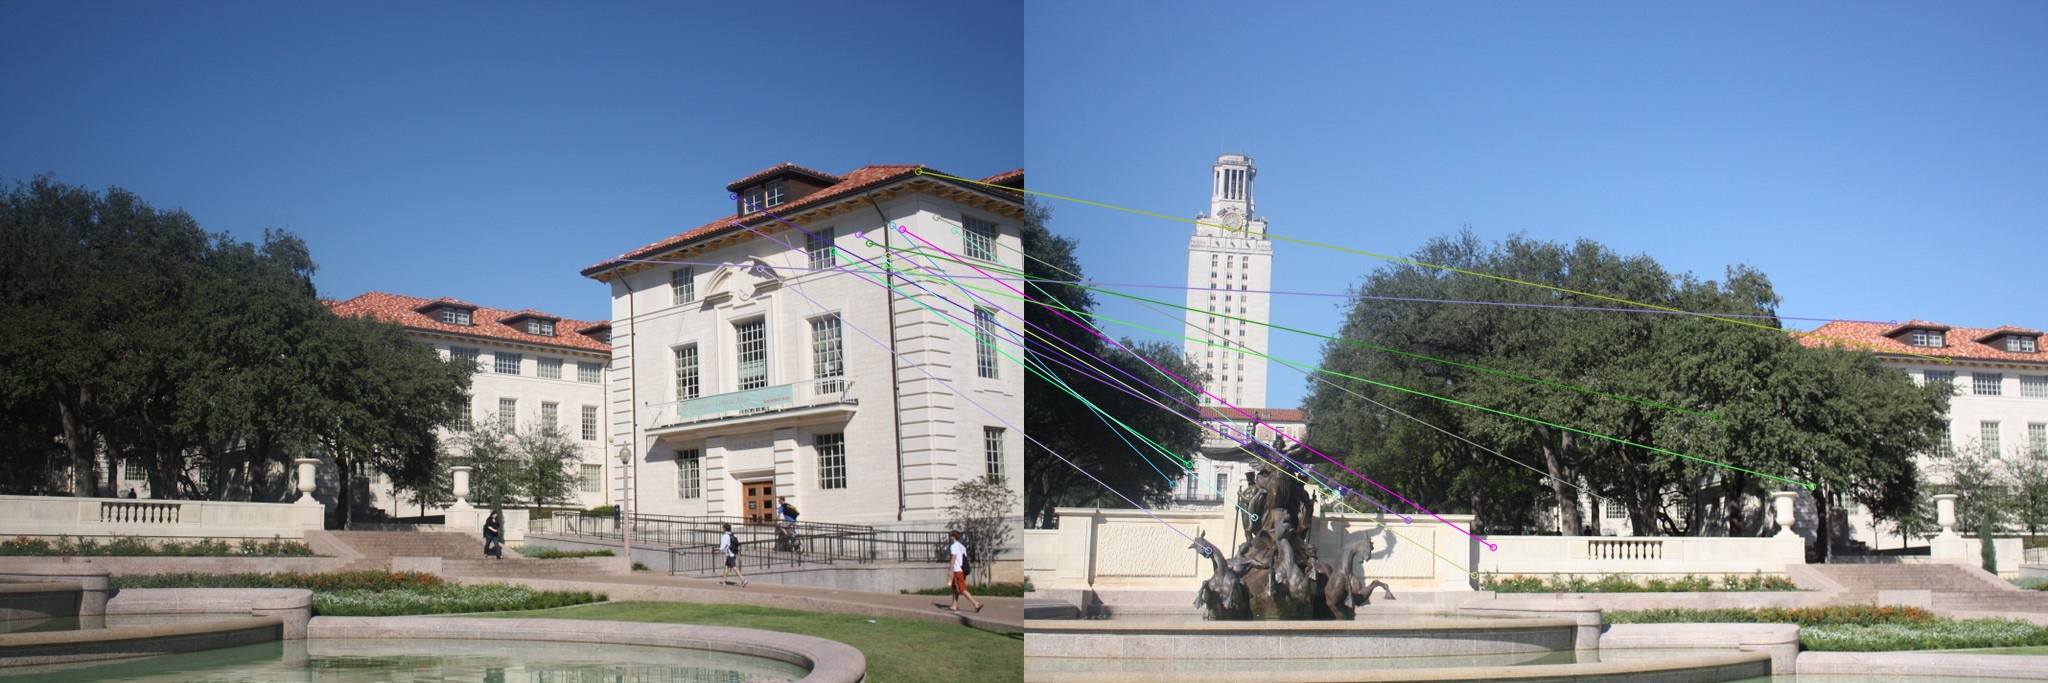
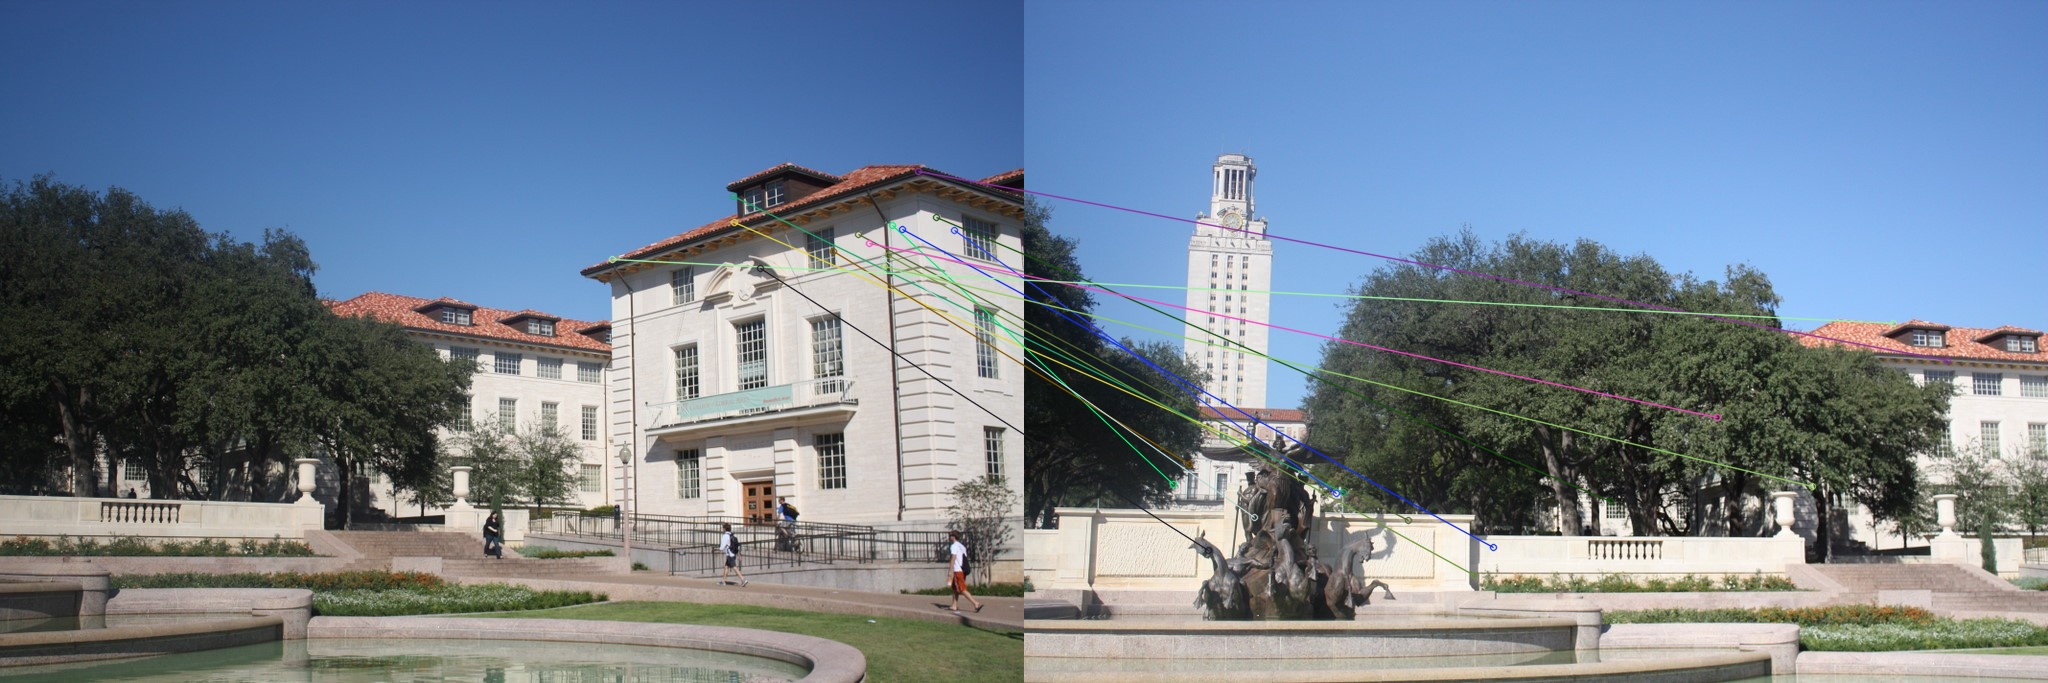
Added example pictures to project 4

diff --git a/projeto 4/panoramic_image_generator.py b/projeto 4/panoramic_image_generator.py
@@ -49,17 +49,21 @@ class PanoramicImageGenerator:
         else:
             homography_matrix = image1.ransac_matrix(image2, matches)
 
-            # Passos 6 e 7
-            image1.reset_to_original_image()
-            image2.reset_to_original_image()
-            panoramic_image = image1.merge_panoramic(image2, homography_matrix)
+            if homography_matrix is None:
+                print("Erro na matriz de homografia")
+            else:
 
-            # Escreve os resultados em arquivo
-            base_path = self.result_dir + result_filename
+                # Passos 6 e 7
+                image1.reset_to_original_image()
+                image2.reset_to_original_image()
+                panoramic_image = image1.merge_panoramic(image2, homography_matrix)
 
-            image_with_lines.image_path = base_path + '_lines.jpeg'
-            image_with_lines.save()
+                # Escreve os resultados em arquivo
+                base_path = self.result_dir + result_filename
 
-            panoramic_image.image_path = base_path + '_panoramic.jpeg'
-            panoramic_image.crop_borders()
-            panoramic_image.save()
+                image_with_lines.image_path = base_path + '_lines.jpeg'
+                image_with_lines.save()
+
+                panoramic_image.image_path = base_path + '_panoramic.jpeg'
+                panoramic_image.crop_borders()
+                panoramic_image.save()

diff --git a/projeto 4/main.py b/projeto 4/main.py
@@ -15,7 +15,7 @@ def generate_example(threshold):
         generator = PanoramicImageGenerator(algorithm, './results/{0}/'.format(algorithm_name), threshold)
 
         # Gera todas as imagens de exemplo
-        for i in range(1, 6):
+        for i in range(1, 7):
             base_filename = "./pictures/foto{0}".format(i)
             generator.generate_image(base_filename + "A.jpg", base_filename + "B.jpg", 'foto{0}'.format(i))
 
